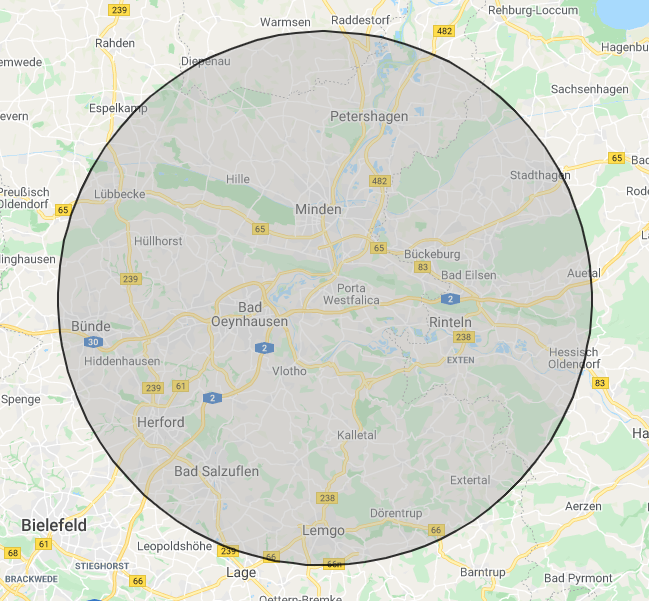
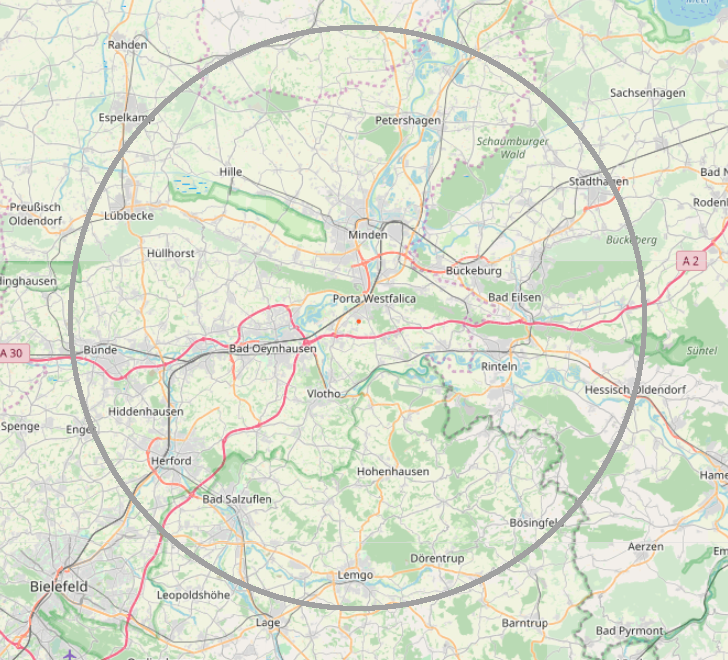
Bilder Lizenz Impressum Update

diff --git a/Impressum.html b/Impressum.html
@@ -64,51 +64,130 @@
     </header>
 
 
-    <section id="kontaktId" class=breitBox  style="min-height: 90.75%; margin-top: 0;" >
-        <!-- <hr id=KontaktId class="invisible" style="float:left">-->
-        <!-- <h3 style="padding-top:210px">So erreichen Sie mich </h3> -->
-            <div class=NochFragenBox >
-              <p style="font-size: 200%;font-weight:bold; color:grey;"> Impressum </p>
+    <section style="min-height:60%">
+          
+            <div>
+              <p> Impressum</p>
+              <hr class=hr2 >
             </div>
 
-            <hr class=hr2 >
+        <div class=IMP1>  
+            
+            <div class=IMPBox2>
 
-            <div class=LastBox >
-              <div class=KartenBox>
-                <p style="font-weight:bold; color:#013f1d; font-size: 230%; font-family: 'Gill Sans', 'Gill Sans MT', Calibri, 'Trebuchet MS', sans-serif; margin-top: 20px;"> <big> Kontakt </big> </p>
-              </div>
+                <div class=IMPÜberschrift>
+                  <p> Kontakt</p>
+                </div>
 
-              <p class="borderlineKontakt" style="color: oldlace;"> <big> <br>
-                  Tristan Busse <br>
-                  Ludwigsweg 3<br> 
-                  32458 Porta Westfalica <br><br>
-                </big>
-              </p>
+                <div class=IMPBox3>
+                  <p >
+                      <u><big>Anschrift</big></u><br>
+                      Tristan Busse <br>
+                      Ludwigsweg 3<br> 
+                      32457 Porta Westfalica <br><br>
+                  </p>
+                </div>
 
-              <p class="borderlineKontakt" style="color: oldlace;"> <big> <br>
-                  Mobil: 0177 / 8998813 <br>
-                  E-mail: tristan.busse@gmx.net<br><br>
-                </big>
-              </p>
+                <div class=IMPBox3>
+                  <p >  
+                    <u><big>Mobil</big></u><br>
+                      0177 / 8998813 <br> 
+
+                      <u><big>E-mail</big></u><br>
+                      tristan.busse@gmx.net<br><br>
+                  </p>
+                </div>
             </div>
 
-            <div class=LastBox2 >
+           
+                <div class=IMPBox2>
+                    
+                      <div class=IMPÜberschrift>
+                        <p>Zusätzliche Angaben gemäß §55 TMG</p>
+                      </div>
 
-              <div class=KartenBox >
-                <p style="font-weight:bold; color:#013f1d; font-size: 230%; font-family: 'Gill Sans', 'Gill Sans MT', Calibri, 'Trebuchet MS', sans-serif; margin-top: 20px;"> <big>Zusätzliche Angaben gemäß §55 TMG </big> </p>
-              </div>
+                      <div class=IMPBox3>
+                        <p>
+                          <u><big>Vor- und Nachname</big> </u> <br>
+                          Tristan Busse <br> <br>
+
+                          <u><big>Postanschrift</big></u><br>
+                          Ludwigsweg 3 <br>
+                          32427 Porta Westfalica <br> <br>
+
+                          <u><big>Firmenbezeichnung</big></u><br>
+                          Baumfällung- und pflege T.J. Busse <br>
+                          Einzelunternehmer <br> <br>
+                        </p>
+                      </div>
+
+                      <div class=IMPBox3>
+                        <p>
+                          <u><big>Vertretungsberechtigte Person</big></u> <br>
+                          - <br><br>
+
+                          <u><big>Aufsichtsbehörde</big></u> <br>
+                          Landwirtschaftskammer NRW und SVLFG <br><br>
+
+                          <u><big> Handelsregister</big></u><br>
+                          Registername: Tristan Busse <br>
+                          Registernummer: 1084819 <br><br>
+                        </p>
+                      </div>
+                 </div>
+             
+
+          </div>
   
-              <p class="borderlineKontakt" style="color: oldlace;"> <big> <br>
-                Baumfällung- und pflege T.J. Busse <br>
-                Tristan Busse<br> 
-                Handelsregister (Registernummer, Namen des Registergerichts) <br>
-                Kammerzugehörigkeit <br>
-                zuständige Aufsichtsbehörde + Postanschrift <br>
-                Umsatzsteueridentifikationsnummer <br><br>
-              </big>
+    </section>  
+    
+    <section style="min-height:60%">
+
+      <div class=IMP1>  
+            
+        <div class=IMPBox2>
+
+            <div class=IMPÜberschrift>
+              <p> Externe Medien</p>
+            </div>
+
+            <div class=IMPBox4>
+              <p style="text-align: justify;">
+                  <u><big>Bilder</big></u><br>
+                  Es wurden insgesamt drei Bilder verwendet, über die nicht das Urheberecht verfügt. Hierbei handelt es sich unter dem Reiter "Dienstleistungen" Bilder 1,2,4,5 und 6.
+                  Hierbei handelt es sich um Bilder der Seite unplash.com , die für den kommerzielle Nutzen zur freihen Verfügung stehen. Des Weiteren braucht es für die Nutzung keine 
+                  Erlaubnis oder namentliche Erwähnung des Urhebers. <br><br>
+
+                  <u><big>Icons</big></u><br>
+                  Beide benutzte Icons (Briefumschlag, Telefon) wurden der Website freeiconshop.com entnommen. Diese stehen für den kommerziellen Nutzen zur freien Verfügung. Eine Nennung
+                  des Urhebers ist nicht notwendig.
+
               </p>
             </div>
-    </section>    
+
+        </div>
+
+       
+            <div class=IMPBox2>
+                
+                  <div class=IMPÜberschrift>
+                    <p>Externe Medien</p>
+                  </div>
+
+                  <div class=IMPBox4>
+                    <p style="text-align: justify;">
+                        <u><big>Karte</big></u><br>
+                        Für den Kartenauschnitt wurde die Website openstreetmap.org verwendet. Jegliche Daten/Karten dieser Website werden unter der "Open Database Licence" zur Verfügung gestellt. 
+                        Dies beinhaltet auch einen kommerziellen Nutzen. <br><br>
+                        Weitere Informationen zu finden unter: https://www.openstreetmap.org/copyright      
+                    </p>
+                  </div>
+             </div>
+         
+
+      </div>
+
+    </section>
 
     
 

diff --git a/style.css b/style.css
@@ -298,6 +298,7 @@ padding-top:3%;
   width:100%;
   background-color: #013f1d;
   z-index: 2;
+  margin-top: 120px;
 }
 
 .NochFragenBox{
@@ -385,7 +386,7 @@ header{
 }
 
 #HeadId4 img{
-  width: 30px;
+  width: 22px;
   height: 16px;
   float: right;
   margin-right: 10px;
@@ -644,8 +645,8 @@ footer p{
 }
 */
 #KarteId img{
-  width:50%;
-  height:40%;
+  width:65%;
+  height:55%;
 }
 
 .LastBox{
@@ -663,6 +664,73 @@ footer p{
   float: left;
 
 }
+
+  /*********************************************************************/
+/*********************************************************************/
+/*********************************************************************/
+/*********************************************************************/
+/*********************************************************************/
+/* Impressum*********************************************************************/
+
+.IMP1{
+  width: 100%;
+  min-height: 70%;
+}
+
+.IMPÜberschrift{
+  width: 100%;
+  float: none;
+  color: beige;
+}
+
+.IMPÜberschrift p{
+  margin-left: 10%;
+  font-size: 25px;
+}
+
+.IMPBox2{
+  margin-top: 5%;
+  margin-left: 2.5%;
+  margin-right: 2.5%;
+  min-height: 400px;
+  width:45%;
+  background-color: #2d7a56;
+  float: left;
+  color: #013f1d;
+  border: 3px solid;
+  
+}
+
+.IMPBox3{
+  margin-left: 2.5%;
+  margin-right: 2.5%;
+  min-height: 100%;
+  width:45%;
+  background-color: #2d7a56;
+  float: left;
+  color: beige;
+}
+
+.IMPBox3 p{
+  text-align: left;
+}
+
+.IMPBox4{
+  margin-left: 2.5%;
+  margin-right: 2.5%;
+  min-height: 100%;
+  width:90%;
+  background-color: #2d7a56;
+  float: left;
+  color: beige;
+}
+
+.IMPBox4 p{
+  text-align: left;
+}
+
+
+
 
 
 /*********************************************************************/
@@ -1982,5 +2050,8 @@ footer p{
   #KarteId{
     width: 740px;
   }
+
+
+
 
 }

diff --git a/index.html b/index.html
@@ -296,7 +296,8 @@
             <img  src="Umkreis.png"  alt="Umkreis" >
             <!--<iframe width="80%" height="500px" frameborder="0"  src="https://umap.openstreetmap.fr/de/map/unbenannte-karte_404325?scaleControl=false&miniMap=false&scrollWheelZoom=false&zoomControl=true&allowEdit=false&moreControl=true&searchControl=null&tilelayersControl=null&embedControl=null&datalayersControl=true&onLoadPanel=undefined&captionBar=false"></iframe><p><a href="https://umap.openstreetmap.fr/de/map/unbenannte-karte_404325">Vollbildanzeige</a></p>
             <iframe width="750" height="400" frameborder="0" scrolling="no" marginheight="0" marginwidth="0" src="https://www.openstreetmap.org/export/embed.html?bbox=8.893411159515383%2C52.219978448374015%2C8.911328315734865%2C52.22588045112227&amp;layer=mapnik" style="border: 1px solid black"></iframe><br/><small><a href="https://www.openstreetmap.org/#map=17/52.22293/8.90237">View Larger Map</a></small> -->
-          </div>
+            <p style="font-size: 12px; color: gray;">© OpenStreetMap contributors</p>
+            </div>
           </div>
 
         </section>
@@ -311,7 +312,7 @@
         <!---(5) Footer -------------------------------------------------------------------->
         <footer>
             <p style="margin-top: 0px;">
-                &copy; 2020 Tristan Busse &nbsp;&nbsp;&nbsp;&nbsp; <a href="Impressum.html" target="_blank">Impressum</a> &nbsp;&nbsp;&nbsp;&nbsp; <a href=" " target="_blank">AGB</a>
+                &copy; 2020 Tristan Busse &nbsp;&nbsp;&nbsp;&nbsp; <a href="Impressum.html" target="_blank">Impressum</a>
             </p>
         </footer>
 
